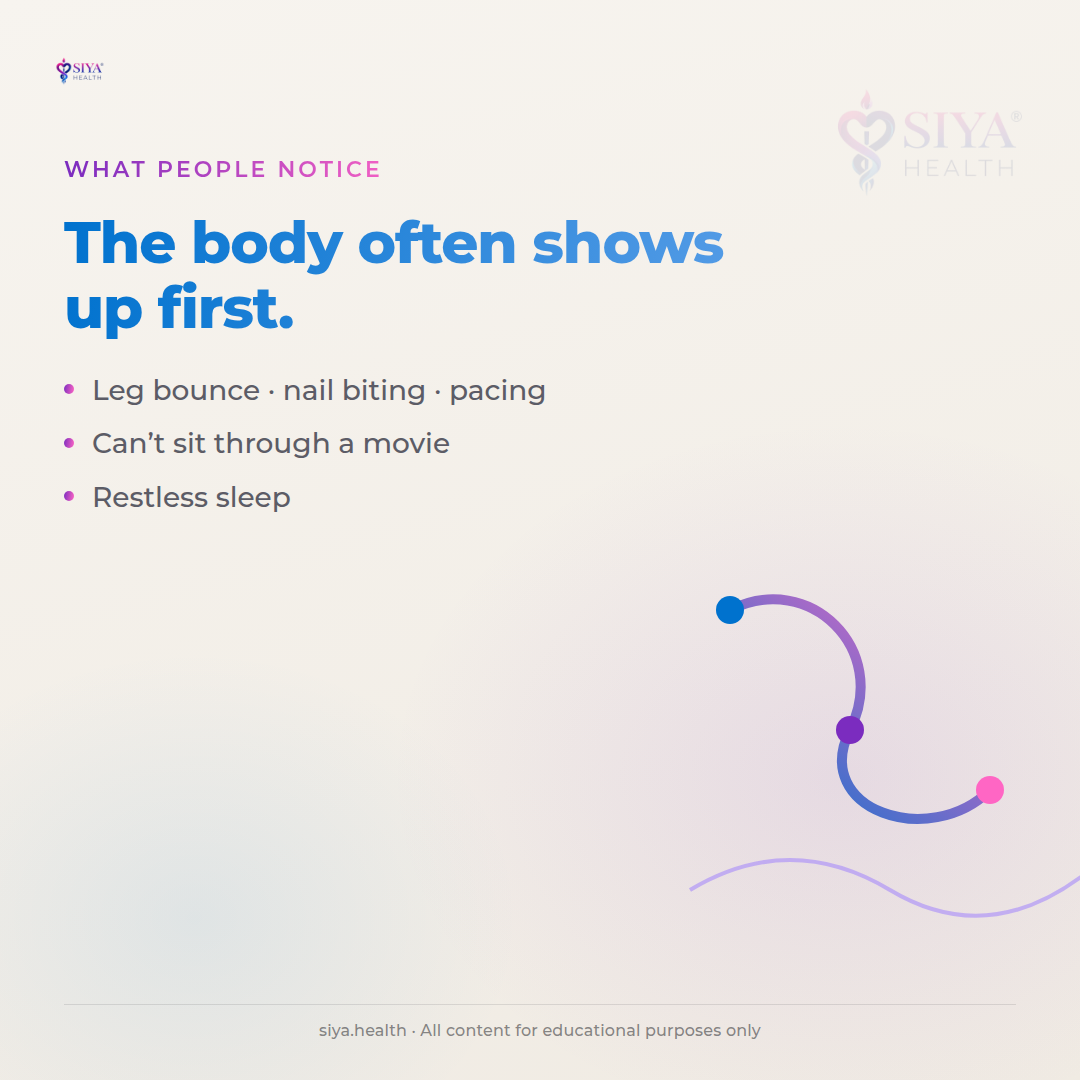
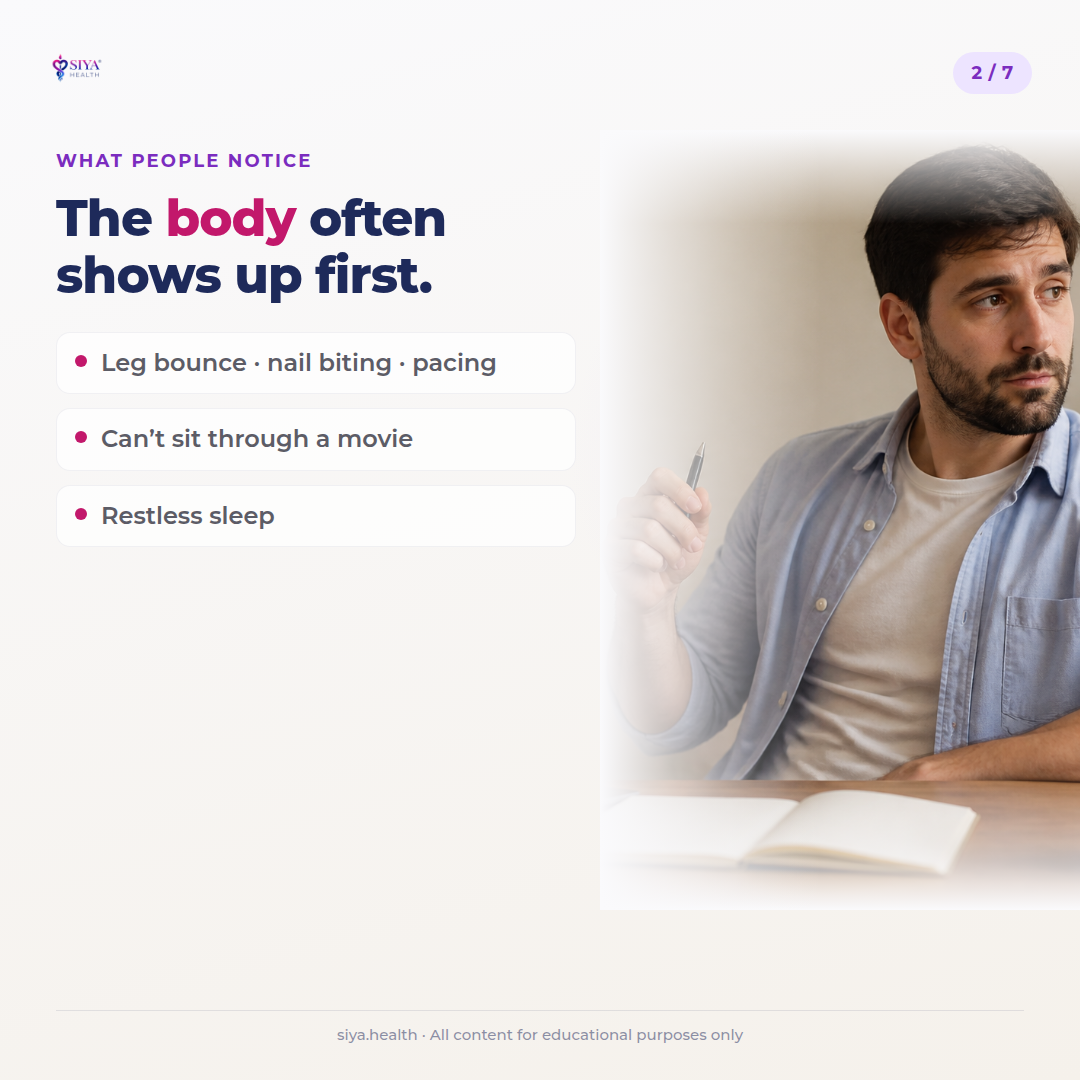
Regen AD-P-01 slide 2 to Template A guidelines
Navy/magenta human-first mid-slide with fidget lifestyle photo,
checklist cards, 2/7 pill, and no watermark.

Changed region(s): [[0.0306, 0.0611, 1.0, 0.8556], [0.3056, 0.9472, 0.7028, 0.9778], [0.0306, 0.0306, 0.0917, 0.0917]]

diff --git a/apps/siya-health/brand/editorial-packs/AD-P-01/design/slide-02.html b/apps/siya-health/brand/editorial-packs/AD-P-01/design/slide-02.html
@@ -1,36 +1,164 @@
 <!DOCTYPE html>
 <html lang="en"><head>
 <meta charset="utf-8" />
-<title>AD-P-01 slide 02</title>
+<title>AD-P-01 slide 02 — Template A</title>
 <link rel="preconnect" href="https://fonts.googleapis.com" />
 <link rel="preconnect" href="https://fonts.gstatic.com" crossorigin />
 <link href="https://fonts.googleapis.com/css2?family=Montserrat:wght@500;600;700;800&display=swap" rel="stylesheet" />
-<link rel="stylesheet" href="theme.css" />
-</head><body style="margin:0;background:#F7F4EF;">
+<style>
+  :root {
+    --navy: #1E2A5A;
+    --magenta: #C2186B;
+    --plum: #7B2CBF;
+    --lavender: #EDE4FF;
+    --cream: #FAFAFC;
+    --cream2: #F5F1EB;
+    --muted: #5C5C66;
+  }
+  * { box-sizing: border-box; margin: 0; padding: 0; }
+  body { margin: 0; background: #FAFAFC; font-family: "Montserrat", system-ui, sans-serif; }
+  .slide {
+    width: 1080px;
+    height: 1080px;
+    position: relative;
+    overflow: hidden;
+    background:
+      radial-gradient(ellipse 48% 42% at 84% 42%, rgba(205,184,255,0.30), transparent 65%),
+      linear-gradient(165deg, var(--cream) 0%, var(--cream2) 100%);
+    color: var(--navy);
+  }
+  .logo {
+    position: absolute;
+    top: 40px;
+    left: 48px;
+    height: 58px;
+    width: auto;
+    z-index: 6;
+  }
+  .count {
+    position: absolute;
+    top: 52px;
+    right: 48px;
+    z-index: 6;
+    padding: 10px 18px;
+    border-radius: 999px;
+    background: var(--lavender);
+    color: var(--plum);
+    font-size: 18px;
+    font-weight: 700;
+    letter-spacing: 0.04em;
+  }
+  .content {
+    position: absolute;
+    left: 56px;
+    top: 150px;
+    width: 520px;
+    z-index: 5;
+  }
+  .eyebrow {
+    font-size: 18px;
+    font-weight: 700;
+    letter-spacing: 0.12em;
+    text-transform: uppercase;
+    color: var(--plum);
+    margin-bottom: 18px;
+  }
+  h1 {
+    font-size: 50px;
+    font-weight: 800;
+    line-height: 1.14;
+    letter-spacing: -0.02em;
+    color: var(--navy);
+    margin-bottom: 28px;
+  }
+  h1 .hi { color: var(--magenta); }
+  .list {
+    list-style: none;
+    display: flex;
+    flex-direction: column;
+    gap: 14px;
+  }
+  .list li {
+    display: flex;
+    align-items: flex-start;
+    gap: 14px;
+    font-size: 24px;
+    font-weight: 600;
+    line-height: 1.35;
+    color: var(--muted);
+    background: rgba(255,255,255,0.72);
+    border: 1px solid rgba(30,42,90,0.06);
+    border-radius: 14px;
+    padding: 14px 18px;
+  }
+  .list li::before {
+    content: "";
+    width: 12px;
+    height: 12px;
+    margin-top: 8px;
+    flex: 0 0 12px;
+    border-radius: 50%;
+    background: var(--magenta);
+  }
+  .photo-wrap {
+    position: absolute;
+    right: 0;
+    top: 130px;
+    width: 480px;
+    height: 780px;
+    z-index: 2;
+    overflow: hidden;
+  }
+  .photo-wrap img {
+    width: 100%;
+    height: 100%;
+    object-fit: cover;
+    object-position: 55% center;
+  }
+  .photo-fade {
+    position: absolute;
+    inset: 0;
+    background:
+      linear-gradient(90deg, var(--cream) 0%, rgba(250,250,252,0.6) 20%, transparent 46%),
+      linear-gradient(180deg, var(--cream) 0%, transparent 12%),
+      linear-gradient(0deg, var(--cream) 0%, transparent 18%);
+    z-index: 3;
+    pointer-events: none;
+  }
+  .footer {
+    position: absolute;
+    left: 56px;
+    right: 56px;
+    bottom: 36px;
+    z-index: 8;
+    border-top: 1px solid rgba(30,42,90,0.10);
+    padding-top: 14px;
+    text-align: center;
+    font-size: 15px;
+    font-weight: 500;
+    color: rgba(30,42,90,0.50);
+  }
+</style>
+</head><body>
 <section class="slide" id="slide-02">
   <img class="logo" src="siya-health-logo.png" alt="Siya Health" />
-  <img class="watermark" src="siya-health-logo.png" alt="" />
+  <div class="count">2 / 7</div>
+
   <div class="content">
     <div class="eyebrow">What people notice</div>
-    <h1 class="blue">The body often shows up first.</h1>
+    <h1>The <span class="hi">body</span> often shows up first.</h1>
     <ul class="list">
       <li>Leg bounce · nail biting · pacing</li>
       <li>Can’t sit through a movie</li>
       <li>Restless sleep</li>
     </ul>
   </div>
-  <svg class="art" viewBox="0 0 520 520" aria-hidden="true">
-    <defs>
-      <linearGradient id="g2" x1="0" y1="1" x2="1" y2="0">
-        <stop offset="0%" stop-color="#0072CE"/><stop offset="100%" stop-color="#FF66C4"/>
-      </linearGradient>
-    </defs>
-    <path d="M140 120 C220 80, 300 160, 260 240 C220 320, 340 360, 400 300" fill="none" stroke="url(#g2)" stroke-width="10" stroke-linecap="round"/>
-    <circle cx="140" cy="120" r="14" fill="#0072CE"/>
-    <circle cx="260" cy="240" r="14" fill="#7B2CBF"/>
-    <circle cx="400" cy="300" r="14" fill="#FF66C4"/>
-    <path d="M100 400 Q200 340 300 400 T500 380" fill="none" stroke="#A78BFA" stroke-width="4" opacity="0.6"/>
-  </svg>
+
+  <div class="photo-wrap">
+    <img src="../images/bases/ad-p01-base-fidget.png" alt="" />
+    <div class="photo-fade"></div>
+  </div>
+
   <div class="footer">siya.health · All content for educational purposes only</div>
 </section>
 </body></html>

diff --git a/apps/siya-health/brand/editorial-packs/AD-P-01/carousel.md b/apps/siya-health/brand/editorial-packs/AD-P-01/carousel.md
@@ -2,17 +2,17 @@
 
 **Insight:** Physical signs that may appear with ADHD — and why they're not enough to diagnose  
 **Audience:** Adults 25–50  
-**Theme:** Template A awareness/human (`SIYA-SOCIAL-POST-STYLE.md`) — cover aligned; mid slides may still use PE-B graphic DNA until batch-regen  
+**Theme:** Template A awareness/human (`SIYA-SOCIAL-POST-STYLE.md`) — slides 01–02 aligned; remaining mid slides pending Template A regen  
 **Format:** 1:1 · 1080×1080 · 7 slides  
-**Cover palette:** Navy `#1E2A5A` · Magenta `#C2186B` · soft lavender/cream  
+**Palette:** Navy `#1E2A5A` · Magenta `#C2186B` · soft lavender/cream  
 **Type:** Montserrat  
-**Logo:** Top-left only on cover · **no** background watermark  
+**Logo:** Top-left only · **no** background watermark  
 **Cover footer:** Care. Compassion. Connection. · `(215) 445-1244` · `www.siya.health`  
 **Practical change:** If these patterns are lifelong and impairing, take a validated screener / talk to a clinician — don't diagnose from fidgeting alone.  
 **CTA (close):** Talk to a Clinician  
 **Voice:** Company only (no founder LinkedIn)  
 **Clinical review:** Required before publish  
-**Render:** `design/render.sh` (slide 01 = Template A HTML)  
+**Render:** Template A HTML in `design/` (slides 01–02)  
 **Ready:** `images/ready/` · `ready-to-post/`
 
 ---
